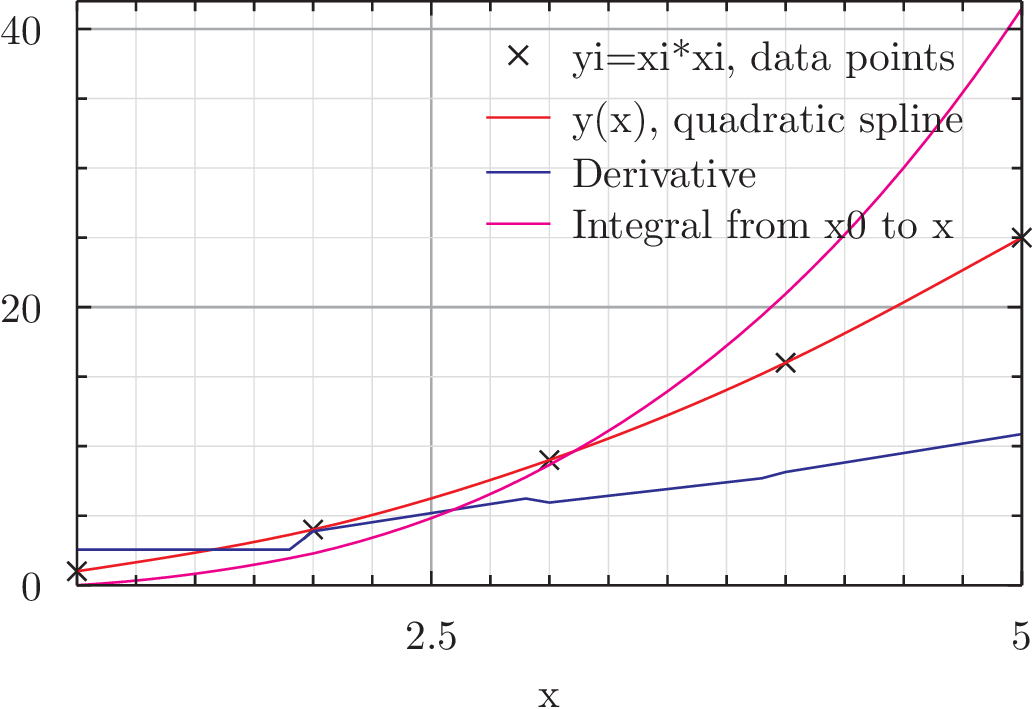
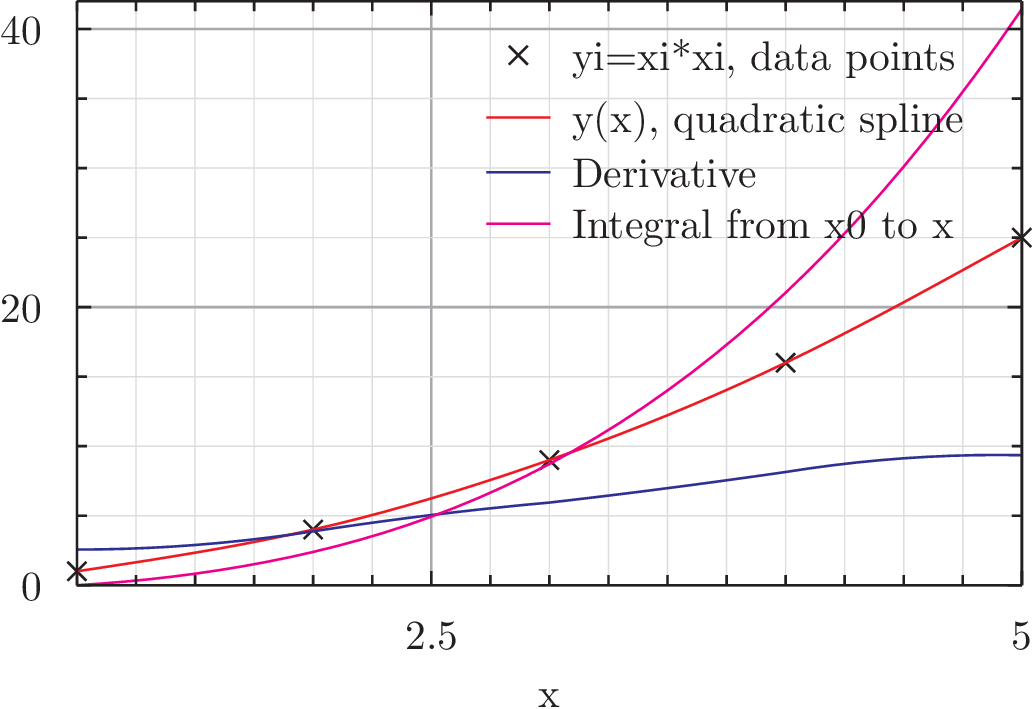
did spline part C

diff --git a/homework/splines/C/cspline.cs b/homework/splines/C/cspline.cs
@@ -71,7 +71,7 @@ public class qspline {
 
 	public double derivative(double z){
 		int i = binsearch(z); 
-		return b[i] +2 * c[i] *(z-x[i]);	
+		return b[i] +2 * c[i] *(z-x[i]) + 3 * d[i] * Pow(z-x[i],2);	
 	}
 
 
@@ -100,7 +100,7 @@ public class qspline {
 		return i; 
 	}
 	double partint(int i, double z){
-		return (z-x[i])/6*(2*c[i]*Pow(z,2)-4*c[i]*z*x[i]+2*c[i]*Pow(x[i],2)+3*b[i]*(z-x[i])+6*y[i]);
+		return (z-x[i])/12*(12*y[i] + 6*b[i]*(z-x[i]) + 4*c[i]*Pow(z-x[i],2) + 3*d[i] *(Pow(z,3)-3*x[i]*Pow(z,2) + 3*z*Pow(x[i],2) -Pow(x[i],3)));
 	}
 
 }

diff --git a/homework/splines/C/main.cs b/homework/splines/C/main.cs
@@ -37,6 +37,16 @@ class main{
 
 		calspline(x,y);
 
+
+		for(int i = 0; i < x.Length; i++){
+			x[i] = i+1;
+			y[i] = Pow(x[i],3);	
+			WriteLine($"{x[i]}	{y[i]}");
+		} 
+		WriteLine("");
+		WriteLine("");
+
+		calspline(x,y);
 	}
 
 	static void calspline(double[] x,double[] y){
